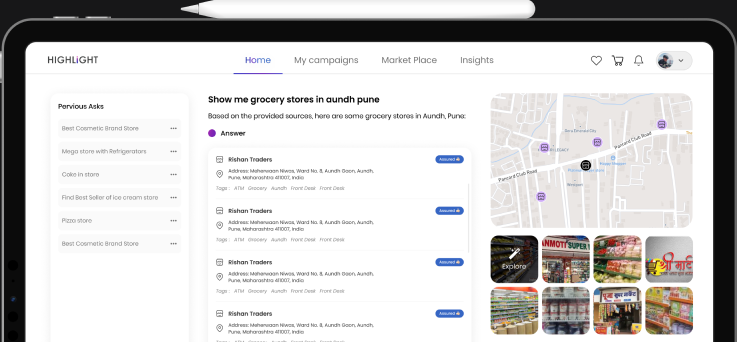
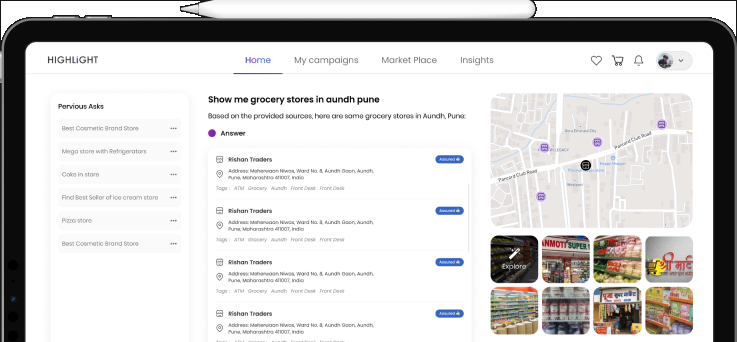
changes for bugs

Changed region(s): [[0.0, 0.0, 0.2809, 0.117], [0.7178, 0.0, 0.9986, 0.0877]]

diff --git a/components/Footer/Footer.tsx b/components/Footer/Footer.tsx
@@ -1,4 +1,7 @@
+import Image from "next/image";
 import React from "react";
+import SiteLogo from "../../public/images/site-logo.png";
+import Link from "next/link";
 
 const Footer = () => {
   return (
@@ -6,7 +9,7 @@ const Footer = () => {
       <div className="container mx-auto px-15px md:px-8  lg:px-14  xl:px-32">
         <div className="flex flex-col space-y-6 sm:space-y-0 sm:flex-row sm:justify-between sm:items-start">
           <div className="flex flex-col items-start md:items-center sm:items-start space-y-4 md:space-y-8">
-            <h2 className="text-2xl font-bold">STANDARDE</h2>
+            <Image src={SiteLogo} alt="site-logo" className="w-52 h-12" />
             <div className="flex space-x-4 md:space-x-6">
               <a
                 href="#"
@@ -74,8 +77,8 @@ const Footer = () => {
               </a>
             </div>
           </div>
-          <div className="text-sm text-left md:text-center sm:text-right">
-            <div className="flex items-center justify-start md:justify-center sm:justify-end mb-2">
+          <div className="text-sm text-left md:text-center sm:text-right ">
+            <div className="flex items-center justify-start md:justify-center sm:justify-end mb-6">
               <svg
                 className="w-4 h-4 mr-2"
                 fill="none"
@@ -90,7 +93,12 @@ const Footer = () => {
                   d="M3 5a2 2 0 012-2h3.28a1 1 0 01.948.684l1.498 4.493a1 1 0 01-.502 1.21l-2.257 1.13a11.042 11.042 0 005.516 5.516l1.13-2.257a1 1 0 011.21-.502l4.493 1.498a1 1 0 01.684.949V19a2 2 0 01-2 2h-1C9.716 21 3 14.284 3 6V5z"
                 ></path>
               </svg>
-              <a href="#" className="text-footer-primary/40 transition-all ease-in-out duration-300 hover:text-footer-primary text-lg font-normal ">+1 516-342-XXXX</a>
+              <Link
+                href="#"
+                className="text-footer-primary/40 transition-all ease-in-out duration-300 hover:text-footer-primary text-lg font-normal "
+              >
+                +1 516-342-XXXX
+              </Link>
             </div>
             <div className="flex items-center justify-start md:justify-center sm:justify-end">
               <svg
@@ -107,21 +115,37 @@ const Footer = () => {
                   d="M3 8l7.89 5.26a2 2 0 002.22 0L21 8M5 19h14a2 2 0 002-2V7a2 2 0 00-2-2H5a2 2 0 00-2 2v10a2 2 0 002 2z"
                 ></path>
               </svg>
-              <a href="#" className="text-footer-primary/40 transition-all ease-in-out duration-300 hover:text-footer-primary text-lg font-normal">info@neuralnextsystems.com</a>
+              <Link
+                href="#"
+                className="text-footer-primary/40 transition-all ease-in-out duration-300 hover:text-footer-primary text-lg font-normal"
+              >
+                info@neuralnextsystems.com
+              </Link>
             </div>
           </div>
         </div>
         <div className="mt-10 py-6 hidden  border-t border-white/20  md:flex flex-col sm:flex-row justify-between items-center">
           <div className="mb-4 sm:mb-0 text-center sm:text-left">
             <ul className="flex items-center ">
-              <li><a href="#" className="text-footer-primary/60 hover:text-footer-primary">
-              Privacy Policy
-            </a></li>
-            <li><p className="text-footer-primary/60 text-sm px-3.5">.</p></li>
-            <li><a href="#" className="text-footer-primary/60 hover:text-footer-primary hover:underline text-sm font-normal">
-            Terms of Conditions
-            </a></li>
-           
+              <li>
+                <a
+                  href="#"
+                  className="text-footer-primary/60 hover:text-footer-primary"
+                >
+                  Privacy Policy
+                </a>
+              </li>
+              <li>
+                <p className="text-footer-primary/60 text-sm px-3.5">.</p>
+              </li>
+              <li>
+                <a
+                  href="#"
+                  className="text-footer-primary/60 hover:text-footer-primary hover:underline text-sm font-normal"
+                >
+                  Terms of Conditions
+                </a>
+              </li>
             </ul>
           </div>
           <p className="text-footer-primary/60 text-sm">

diff --git a/app/page.tsx b/app/page.tsx
@@ -91,8 +91,8 @@ export default function Home() {
                 engaging experiences that win loyalty.
               </p>
             </div>
-            <div className="l-ContentColumn w-full max-w-full xl:max-w-[1125px] mx-auto px-15px lg:px-14 md:px-14 ">
-              <div className="main-container flex flex-wrap xl:grid w-full relative xl:gap-5">
+            <div className="l-ContentColumn w-full max-w-full xl:max-w-[1125px] mx-auto px-15px lg:px-0 md:px-14 ">
+              <div className="main-container flex flex-wrap xl:grid  w-full relative xl:gap-5">
                 <div className="number-state">
                   <div className=" bg-white/5 w-full h-full border border-white/10 p-8 rounded-20px">
                     <Image src={Gridone} className="mx-auto" alt="ge-1" />
@@ -125,7 +125,7 @@ export default function Home() {
                     </div>
                   </div>
                 </div>
-                <div className="number-state !w-full lg:!w-1/2">
+                <div className="number-state !w-full lg:!w-1/2 xl:!w-full">
                   <div className=" bg-white/5 w-full h-full border border-white/10 p-8 rounded-20px">
                     <div className="relative ">
                       <h5 className="text-80px text-text-fifth font-bold leading-none">
@@ -189,7 +189,7 @@ export default function Home() {
                     </div>
                   </div>
                 </div>
-                <div className="number-state !w-full lg:!w-1/2">
+                <div className="number-state !w-full xl:!w-full lg:!w-1/2">
                   <div className=" bg-white/5 w-full h-full pb-0 border border-white/10 p-8 pr-3 rounded-20px align-super flex-wrap space-y-3 lg:space-y-0">
                     <div className="relative block w-full">
                       <h5 className="text-xl text-white font-normal">
@@ -205,7 +205,7 @@ export default function Home() {
                     </div>
                   </div>
                 </div>
-                <div className="number-state !w-full lg:!w-1/2">
+                <div className="number-state !w-full xl:!w-full lg:!w-1/2">
                   <div className=" bg-white/5 w-full h-full border border-white/10 p-8 rounded-20px flex  flex-wrap space-y-4 lg:space-y-0">
                     <div className="relative block w-full max-w-48">
                       <h5 className="text-base md:text-xl text-white font-normal">

diff --git a/components/Advertize/Advertize.tsx b/components/Advertize/Advertize.tsx
@@ -6,10 +6,10 @@ const Advertize: FC = () => {
   return (
     <section className="text-white py-10 md:py-16 px-15px lg:px-14 md:px-8 xl:px-32">
       <div className="container mx-auto px-0">
-        <div className="max-w-8xl pr-0 md:pr-0 lg:pr-0 overflow-hidden mx-auto bg-black rounded-20px  md:h-unset md:rounded-40px bg-radial px-10 lg:px-16 pt-10 lg:pt-20 relative before:contents-[''] before:absolute before:top-0 before:left-0 before:w-full before:h-full before:bg-black/50">
+        <div className="max-w-8xl pr-0 md:pr-0 lg:pr-0 overflow-hidden mx-auto bg-black rounded-20px  md:h-unset md:rounded-40px bg-radial px-8 lg:px-10 pt-10 lg:pt-10 relative before:contents-[''] before:absolute before:top-0 before:left-0 before:w-full before:h-full before:bg-black/50 ">
           <div className="flex flex-col lg:flex-row ">
             <div className="w-full lg:w-1/2 mb-8 lg:mb-0 lg:pr-8 z-10">
-              <h2 className="text-xl md:text-2xl lg:!leading-3.25rem lg:text-3xl xl:text-40px font-semibold mb-4 md:mb-6">
+              <h2 className="text-xl md:text-2xl lg:!leading-3.25rem lg:mb-3 lg:text-3xl xl:text-40px font-semibold mb-4 md:mb-6">
                 Pizza ipsum dolor meat lovers buffalo.
               </h2>
               <ul className="flex flex-wrap  mb-6  gap-y-2 gap-x-4">
@@ -63,8 +63,8 @@ const Advertize: FC = () => {
               </a>
             </div>
 
-            <div className="w-full lg:w-1/2 flex items-center z-10">
-              <div className="xl:max-h-348px md:max-h-64 md:h-64 xl:h-348px mt-6 lg:mt-0">
+            <div className="w-full lg:w-1/2 flex items-center z-10 ml-16">
+              <div className="xl:max-h-348px md:max-h-64 md:h-64 xl:h-348px mt-6">
                 <Image
                   src={heroSlider}
                   alt="hero-mg"

diff --git a/app/globals.css b/app/globals.css
@@ -214,3 +214,13 @@ body {
   scrollbar-width: thin;
   scrollbar-color: rgba(255, 255, 255, 0.5) rgba(255, 255, 255, 0.1);
 }
+.slick-dots li button:before {
+  color: white !important;
+  opacity: 0.5 !important;
+  font-size: 6px !important;
+}
+
+.slick-dots li.slick-active button:before {
+  color: white !important;
+  opacity: 1 !important;
+}
